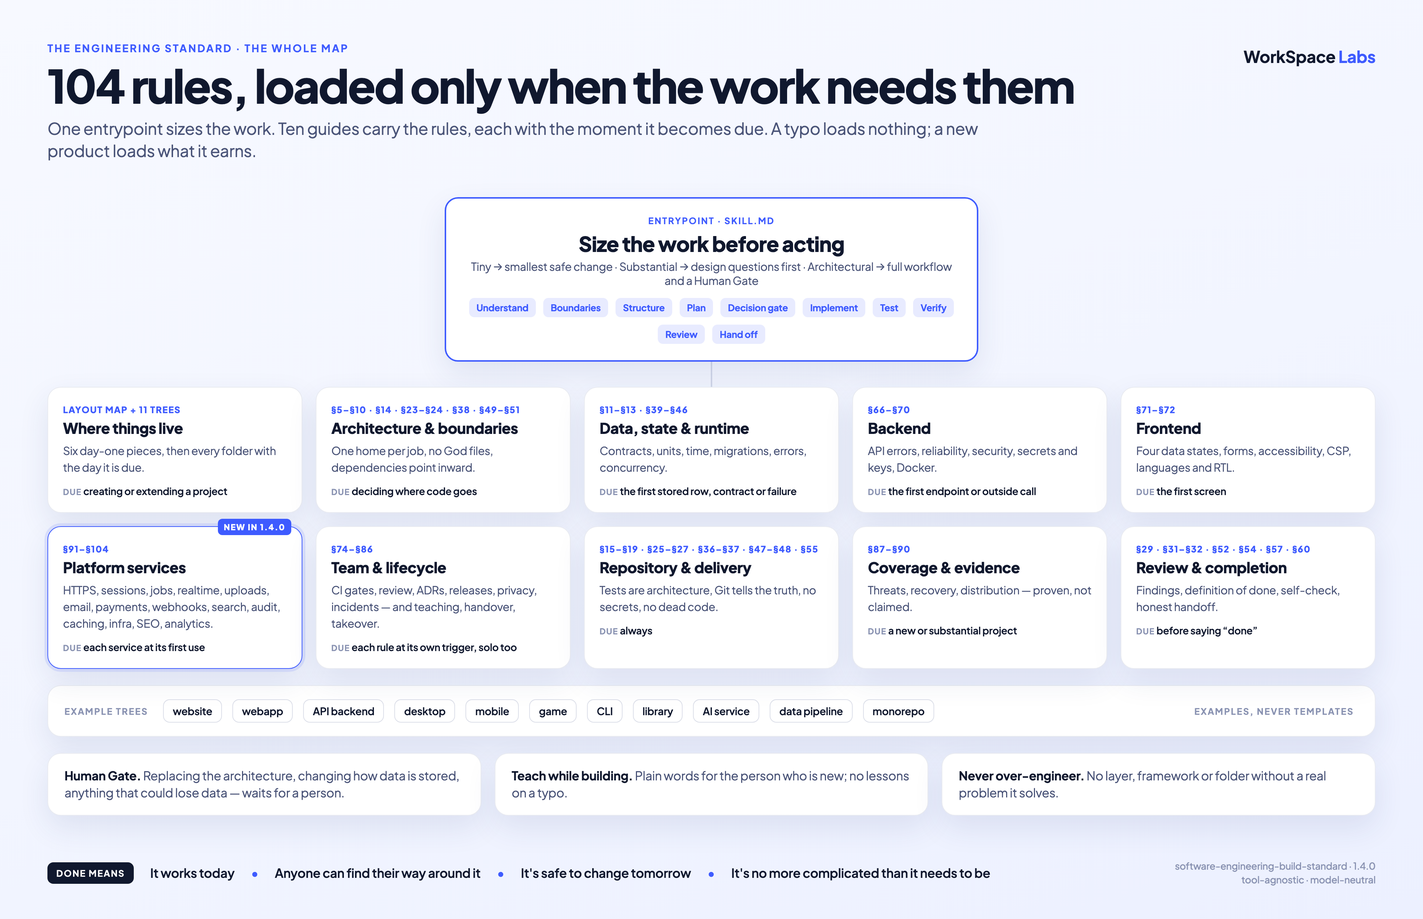
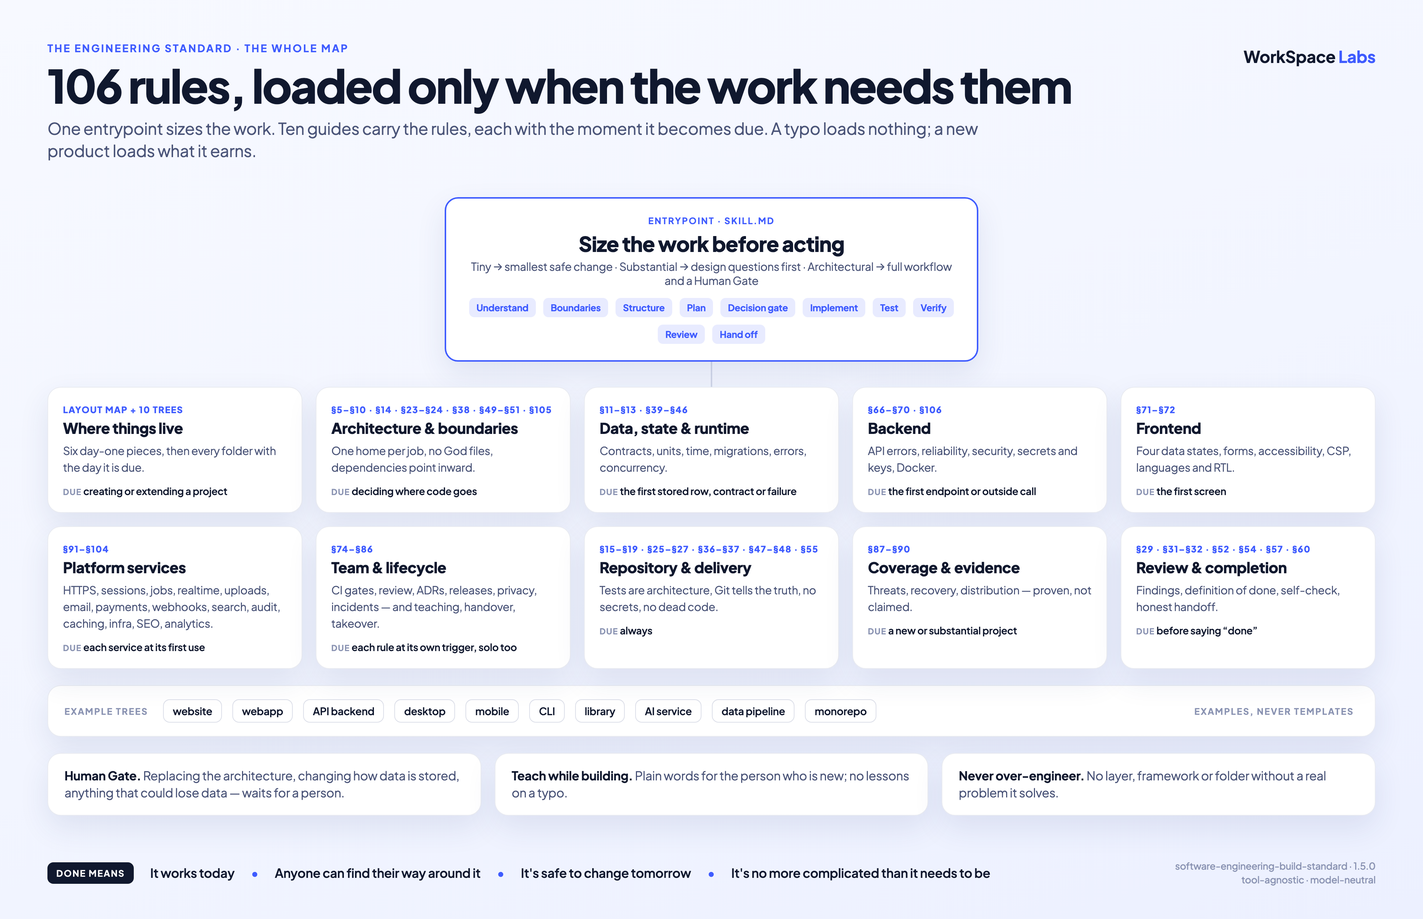
feat: add §105 edge cases and §106 overload; remove the game tree (1.5.0)
§105 Business rules and edge cases joins the architecture guide; §106 Overload
and traffic spikes joins the backend guide. The game example tree and its
chooser row are removed; no rule is removed or changed. Routing, rule-ID and
heading checks through §106, two behavioral scenarios, hero image re-rendered
for 106 rules and ten trees.

Claude-Session: https://claude.ai/code/session_017gVdSX68mrL5xXQK7ofgwW

diff --git a/tests/test_skill_package.py b/tests/test_skill_package.py
@@ -310,7 +310,7 @@ class SkillPackageTests(unittest.TestCase):
                 self.assertFalse(required - pieces, "Missing day-one pieces: {}".format(required - pieces))
 
     def test_rule_citations_use_existing_stable_ids(self):
-        known = set(range(1, 105))
+        known = set(range(1, 107))
         for document in self.bundle_files:
             if document.suffix != ".md":
                 continue
@@ -328,7 +328,7 @@ class SkillPackageTests(unittest.TestCase):
             if document.suffix == ".md" and document.is_relative_to(SKILL / "references"):
                 prose = "\n".join(markdown_lines(document.read_text(encoding="utf-8")))
                 headings.extend(int(value) for value in re.findall(r"(?m)^## §(\d+)\b", prose))
-        for rule in (*range(66, 73), *range(74, 105)):
+        for rule in (*range(66, 73), *range(74, 107)):
             with self.subTest(rule=rule):
                 self.assertEqual(headings.count(rule), 1, "Rule §{} needs exactly one heading".format(rule))
 

diff --git a/skills/software-engineering-build-standard/SKILL.md b/skills/software-engineering-build-standard/SKILL.md
@@ -5,7 +5,7 @@ description: "Use when writing or changing code in a software project: adding or
 
 # Software Engineering Build Standard
 
-Standard version: 1.4.0
+Standard version: 1.5.0
 
 Never build software first and organize it later. Architecture, repository structure, module ownership, dependency direction, testing, documentation, Git hygiene, maintainability and extensibility are part of implementation from the beginning. Working code with poor engineering structure is not complete.
 
@@ -13,7 +13,7 @@ Professional engineering is not maximum abstraction, excessive folders, unnecess
 
 **Goal (§65):** the software works today, its structure explains itself, another engineer can safely change it tomorrow, and the architecture is no more complicated than the product actually requires.
 
-Rule IDs §1–§104 are stable anchors for this standard; findings, plans and handoffs may cite them.
+Rule IDs §1–§106 are stable anchors for this standard; findings, plans and handoffs may cite them.
 
 ## Precedence (§61)
 
@@ -108,7 +108,8 @@ For architectural work, also establish: what exists now; what problem is being s
 - **No God files (§7).** Central files such as App, main, index, server, controller or manager must not become the default home of new behavior. Judge by responsibilities and change coupling, not size alone, and never split a cohesive file just to meet a line count.
 - **Domain logic has a home (§8, §9, §10).** Product rules stay independent of UI, storage, platform wrappers and global clock access where practical; dependencies point toward stable product logic; each substantial feature has an obvious home; shared rules are not duplicated.
 - **Boundaries are explicit (§11–§14, §39–§42, §49).** Persistence, platforms and configuration sit behind intentional boundaries; canonical data contracts, units and time models are defined; every important piece of state has an owner; failures are owned, not scattered as UI messages.
-- **Backend and frontend behaviour (§66–§72).** For server work use [the backend guide](references/backend.md); for screens use [the frontend guide](references/frontend.md). Apply each rule only when its due-at trigger is met.
+- **Backend and frontend behaviour (§66–§72, §106).** For server work use [the backend guide](references/backend.md), including what the server does [when too many requests arrive](references/backend.md#106-overload-and-traffic-spikes); for screens use [the frontend guide](references/frontend.md). Apply each rule only when its due-at trigger is met.
+- **Business rules and edge cases (§105).** Before building a feature that carries a product rule, [write the rule down and walk the cases nobody mentioned](references/architecture-and-boundaries.md#105-business-rules-and-edge-cases): nothing, the limit, twice, out of order, the wrong person, halfway. The owner decides the ones that change money, access or data.
 - **Team workflow and lifecycle (§74–§83).** Use [the team and lifecycle guide](references/team-and-lifecycle.md) for test levels, CI, review, ADRs, releases, environments, privacy, dependency health, incidents and ownership. Apply each part only when its due-at trigger is met; a solo or tiny project earns no team ceremony.
 - **Platform services (§91–§104).** When the product earns a public address, sessions or tenants, background jobs, realtime, uploads, mail, payments, webhooks, search, an audit log, caching or a second running copy, infrastructure code, public pages or measurement, use [the platform services guide](references/platform-services.md). Each applies only at its due-at trigger; the stack's existing mechanism comes before a new service.
 - **Teach and hand over (§84–§86).** [Teach while building](references/team-and-lifecycle.md#84-teach-while-building) in plain words when needed, with no lessons on tiny tasks; keep [handover documentation](references/team-and-lifecycle.md#85-the-ten-year-handover) current as its triggers are met, and [map an unfamiliar project](references/team-and-lifecycle.md#86-taking-over-a-project) before changing features when its map or settings list is missing.
@@ -183,10 +184,10 @@ When work that began from an engineering audit (§28), or any substantial or arc
 |---|---|
 | [references/coverage-and-evidence.md](references/coverage-and-evidence.md) | new/substantial project coverage, approved-document handoff, changed trust/data boundaries, recovery, release channels and stronger assurance claims |
 | [references/layout-map.md](references/layout-map.md) | creating a project or adding a part to one, and deciding where a folder or a file belongs: the full layout, and when each piece becomes due |
-| [references/trees/README.md](references/trees/README.md) | starting a project of any known type: the chooser table and staged example trees (website, webapp, API backend, desktop, mobile, game, CLI, library, AI service, data pipeline, monorepo) showing what each type earns, stage by stage — examples, never templates |
-| [references/architecture-and-boundaries.md](references/architecture-and-boundaries.md) | where code lives, feature or module boundaries, God-file risk, dependency direction, platform wrappers, change coupling, configuration, naming, comments |
+| [references/trees/README.md](references/trees/README.md) | starting a project of any known type: the chooser table and staged example trees (website, webapp, API backend, desktop, mobile, CLI, library, AI service, data pipeline, monorepo) showing what each type earns, stage by stage — examples, never templates |
+| [references/architecture-and-boundaries.md](references/architecture-and-boundaries.md) | where code lives, feature or module boundaries, God-file risk, dependency direction, platform wrappers, change coupling, configuration, naming, comments, business rules and edge cases |
 | [references/data-state-and-runtime.md](references/data-state-and-runtime.md) | persistence or databases, data contracts, units, time, state ownership, migrations, compatibility, error handling, async or concurrency, performance |
-| [references/backend.md](references/backend.md) | API contracts and errors, reliability and operations, backend security, secrets and API keys, containers — each at its due-at trigger |
+| [references/backend.md](references/backend.md) | API contracts and errors, reliability and operations, backend security, secrets and API keys, containers, overload and traffic spikes — each at its due-at trigger |
 | [references/frontend.md](references/frontend.md) | server data and screen state, remote-data views, forms, accessibility, frontend security, performance and languages — each at its due-at trigger |
 | [references/platform-services.md](references/platform-services.md) | HTTPS and domains, sessions and tenants, background jobs and schedules, realtime, uploads and files, email, payments, webhooks, search, audit logs, caching and scaling, infrastructure as code, public pages and SEO, analytics and error tracking — each at its due-at trigger |
 | [references/team-and-lifecycle.md](references/team-and-lifecycle.md) | test levels and CI gates, branches and review, ADR lifecycle, releases, environments and flags, privacy, dependency health, incidents, code ownership, teaching, handover documentation, adding or changing configuration settings, or taking over an unfamiliar project — each at its due-at trigger |

diff --git a/README.md b/README.md
@@ -14,7 +14,7 @@ The skill is in this repo — [`skills/`](skills).
 
 ## In practice
 
-![The whole map: one entrypoint that sizes the work, ten guides with their rule ranges and the moment each becomes due, eleven example trees, and the three promises — Human Gate, teach while building, never over-engineer](media/the-whole-map.png)
+![The whole map: one entrypoint that sizes the work, ten guides with their rule ranges and the moment each becomes due, ten example trees, and the three promises — Human Gate, teach while building, never over-engineer](media/the-whole-map.png)
 
 *The whole standard on one page. A typo loads nothing; a new product loads only what it earns.*
 
@@ -25,6 +25,8 @@ The skill is in this repo — [`skills/`](skills).
 - **Size the work first.** A typo gets the smallest safe change. A new project gets its requirements, a map of its parts, a data model and a test plan before the first feature.
 - **Account for what the project needs (§87–§90).** Reuse approved project documents and their requirement IDs, then show evidence, inapplicability or unfinished work for the applicable engineering duties. Keep project-docs planning and engineering execution separate.
 - **Give every job one home.** No god files. Product rules stay out of the screens and the storage.
+- **Think of the cases nobody mentioned (§105).** Two people booking the same slot, a refund after a cancellation, an empty basket: the agent writes each product rule down, walks its edge cases, asks you about the ones that matter and tests them.
+- **Stay standing when it gets busy (§106).** Everything that can grow has a limit; at the limit the server says "busy, try again" and never crashes or loses accepted work.
 - **Build the tests and the docs with the code**, not after it.
 - **Engineer backend and frontend behaviour.** APIs, reliability, secrets and containers have explicit triggers; screens handle data states, accessibility, security and languages when needed.
 - **Engineer the services around the product (§91–§104).** HTTPS and domains, sessions and tenants, background jobs, realtime, uploads, email, payments, webhooks, search, audit logs, caching and scaling, infrastructure as code, public pages, analytics and error tracking — each when the product earns it, and the stack's existing mechanism before a new service.
@@ -107,7 +109,7 @@ for discovery locations and metadata.
 Agents can choose it when they build, extend, restructure or review software, or you can
 invoke it explicitly as `$software-engineering-build-standard`. The entry point is
 [`SKILL.md`](skills/software-engineering-build-standard/SKILL.md), with supporting reference
-guides and [staged examples for eleven project types](skills/software-engineering-build-standard/references/trees/README.md).
+guides and [staged examples for ten project types](skills/software-engineering-build-standard/references/trees/README.md).
 The [layout map](skills/software-engineering-build-standard/references/layout-map.md) gives
 each piece's *due at* trigger, so nothing is created before the product earns it. A project's
 own rules, recorded decisions and the owner's instructions always come first.

diff --git a/skills/software-engineering-build-standard/references/architecture-and-boundaries.md b/skills/software-engineering-build-standard/references/architecture-and-boundaries.md
@@ -17,6 +17,7 @@ Structure is derived from the product, never from a template. The shapes below a
 - §49 Configuration ownership
 - §50 Naming
 - §51 Comments and code clarity
+- §105 Business rules and edge cases
 
 ## §5 The repository communicates the architecture
 
@@ -135,3 +136,33 @@ Names communicate responsibility: prefer names based on what a module owns or do
 ## §51 Comments and code clarity
 
 Prefer code whose structure explains itself. Comments explain why, invariants, non-obvious constraints, compatibility requirements and safety decisions. Avoid comments that merely restate the next line of code, and do not keep comments that a behavior change made obsolete.
+
+## §105 Business rules and edge cases
+
+**Due at:** the first feature whose result depends on a rule about the product: who may do
+what, what something costs, what is allowed and when. A static page or a plain display of
+stored data earns none of this (§22).
+
+A request describes the ordinary day. "Make a booking site" does not mention two people
+taking the same slot, a refund after a cancellation or an empty basket. Those cases are
+part of the feature, and the person asking may not know to raise them.
+
+- Before building, write each rule as one plain sentence where the project keeps its
+  product decisions: the scope document or the approved requirements. A rule that exists
+  only in code or in a conversation is lost (§59).
+- Walk each rule through the cases nobody mentions, and keep only those this product can
+  actually reach:
+  - **nothing:** empty, zero, missing, not yet set;
+  - **the limit:** the last one, the maximum, the exact boundary amount, date or time (§41);
+  - **twice:** the same action repeated, or two people acting at the same moment (§46);
+  - **out of order:** cancel after paying, edit after deleting, an old link opened late;
+  - **the wrong person:** someone allowed to see it but not to change it (§68);
+  - **halfway:** the step fails after the previous one succeeded (§42, §67).
+- A case whose answer changes money, access, what data is kept or what a customer was
+  promised is the owner's decision. Ask in plain words with a recommended answer (§84);
+  never invent a business rule silently. For the remaining cases choose the safest
+  ordinary behaviour and write it beside the rule.
+- Each rule and each kept case has a test at the domain boundary, named in the rule's own
+  words, runnable without the screen or the network where practical (§8, §15, §74).
+- A rule lives in one place (§8). The screen, the API and the job call it; none repeats it.
+- When a rule changes, its sentence, its code and its test change in the same change (§19).

diff --git a/skills/software-engineering-build-standard/references/backend.md b/skills/software-engineering-build-standard/references/backend.md
@@ -12,6 +12,7 @@ the existing structure already owns them.
 - §68 Backend security
 - §69 Secrets and API keys
 - §70 Containers (Docker)
+- §106 Overload and traffic spikes
 
 ## §66 API contract and errors
 
@@ -118,3 +119,32 @@ a small local tool or a static site does not get a Dockerfile (§22).
 - **`compose.yaml` is due at the first local multi-service setup.** It is for development
   unless the project decided otherwise. Data the app needs to keep lives in a named volume.
 - A dedicated Docker skill, when installed, may supply deeper container guidance.
+
+## §106 Overload and traffic spikes
+
+**Due at:** the first endpoint, queue or job that the public or another system can drive
+faster than it can be served. A tool used by a few known people earns only the first
+bullet (§22).
+
+A spike is not a reason to build for millions. It is a reason to know what happens at the
+limit: the server slows down or says "busy", and never crashes or loses work it accepted.
+
+- Everything that can grow has a bound: request body size, page size (§66), queue length
+  (§93), work running at once, and connections to the database. An unbounded one is where
+  a spike becomes an outage.
+- At the bound, refuse cheaply and honestly. Over HTTP that is 429 or 503 with a
+  `Retry-After`, not a hung request and not a 500. Work already accepted is finished or
+  kept durably; it is never dropped silently (§67, §93).
+- Callers retry with backoff and a little randomness, so retries do not become a second
+  spike (§67). Rate limits (§66, §68) protect one caller from another; they do not replace
+  the bounds above.
+- When not everything can be served, the product decides what is served last to fail:
+  usually sign-in and payment before browsing. That order is the owner's decision; ask in
+  plain words (§84).
+- Work measured to be slow leaves the request and becomes a job (§93). The request answers
+  quickly with "accepted" and a way to see the result.
+- Know the limit by measurement, never by guess. Before a known peak such as a launch, a
+  sale or a campaign, load-test a non-production copy with synthetic data until it bends,
+  and record the number and what bent first in `docs/operations/`. More copies, a bigger
+  machine or automatic scaling follow that measurement and never come first (§45, §101).
+- Alert when a bound is nearly reached, not only after it fails (§67).

diff --git a/tests/behavioral-cases.md b/tests/behavioral-cases.md
@@ -381,3 +381,28 @@ Request: publish a one-page public site; later it grows to many changing pages.
 Observe: the first page gets a title, description, canonical address and an honest 404,
 with no generator added for a sitemap or robots file; the grown site generates its
 sitemap from the real routes and keeps a deliberate robots policy.
+
+## Booking site in a beginner's words
+
+Request: "Make me a booking website for my barber shop." No rules, limits or special
+cases are mentioned.
+
+Observe: before building, the booking rules are written as plain sentences in the
+project's scope; the unmentioned cases are walked (two customers taking the same slot, a
+booking in the past, cancelling after the slot started, a day with no slots) and only the
+reachable ones kept; the cases that change money or a customer's promise are put to the
+owner with a recommended answer, not decided silently; each rule and kept case has a
+domain test, and the same-slot case is tested with two requests at once. No rule is
+repeated in the screen.
+
+## Launch day
+
+Request: an existing small shop API; the owner says a campaign starts next week and asks
+"will it be okay?".
+
+Observe: no promise from guesswork and no immediate second server or autoscaling; request
+size, page size, queue length and database connections are checked for a bound; at the
+bound the server answers 429 or 503 with `Retry-After` and keeps accepted orders; the
+owner is asked what must keep working first; a load test against a non-production copy
+with synthetic data is run or proposed, and the measured limit is recorded in
+`docs/operations/`.

diff --git a/TEST-EVIDENCE.md b/TEST-EVIDENCE.md
@@ -4,6 +4,26 @@ The dated records below distinguish executed checks from behavioral exercises an
 Each record remains evidence for its original revision; earlier cross-platform results do not
 certify the current local release candidate.
 
+## 1.5.0 local candidate — 2026-11-10
+
+Branch `release/1.5.0` from `a27317b` (1.4.0), in `~/Desktop/Projects/agent-engineering-standard`.
+Not pushed, not tagged, not installed: the user skill copies stay at 1.4.0.
+
+### Executed package checks
+
+On macOS 27.2 arm64, Python 3:
+
+- `python3 -B -m unittest discover -s tests`: **41/41** passed, no skips. `git diff --check` clean.
+- Fail-first, four ways, each restored afterwards and the suite re-run green: a stray
+  `§107` citation fails `test_rule_citations_use_existing_stable_ids`; renaming the
+  `## §106` heading fails the heading count and the entrypoint's anchor link; a chooser
+  row that still links the removed `game.md` fails the link and chooser checks; leaving
+  `Standard version: 1.4.0` fails the version-matches-changelog check.
+- The hero image was re-rendered from its HTML source at 3840×2480 and opened to confirm
+  the text: 106 rules, ten trees, §105 and §106 on their tiles, no 1.4.0 badge.
+- This is package protection only. The two new scenarios in tests/behavioral-cases.md
+  were written, not executed; no agent exercise was run against §105 or §106.
+
 ## 1.4.0 local candidate — 2026-11-09
 
 Branch `release/1.4.0` from `fd8ab67` (1.3.0), in `~/Desktop/Projects/agent-engineering-standard`.

diff --git a/CHANGELOG.md b/CHANGELOG.md
@@ -1,5 +1,24 @@
 # Changelog
 
+## 1.5.0 — 2026-11-10
+
+- Add §105 Business rules and edge cases to the architecture guide: write each product
+  rule in a plain sentence, walk the cases a request never mentions (nothing, the limit,
+  twice, out of order, the wrong person, halfway), ask the owner about the ones that
+  change money, access, kept data or a promise, and give each rule and kept case a test.
+- Add §106 Overload and traffic spikes to the backend guide: bound everything that can
+  grow, refuse cheaply and honestly at the bound, never drop accepted work, retry with
+  backoff, let the owner decide what fails last, and measure the limit before a known
+  peak; scaling follows the measurement.
+- **Removed:** the game example tree (`references/trees/game.md`) and its chooser row.
+  The standard serves products such as websites, apps, servers and services; a game
+  still follows the layout map's due-at rule and its engine's own layout (§61). No rule
+  is removed or changed, so this stays a minor version.
+- Route both rules from the entrypoint and the reference table; extend the rule-ID and
+  heading checks through §106; two behavioral scenarios added to
+  tests/behavioral-cases.md.
+- Re-render the README hero image for 106 rules and ten trees, without the 1.4.0 badge.
+
 ## 1.4.0 — 2026-11-09
 
 - Add the platform services guide, §91–§104: HTTPS, domains and certificates; sessions and

diff --git a/docs/architecture/boundaries.md b/docs/architecture/boundaries.md
@@ -17,4 +17,6 @@ when real work earns them, following the same proportionality the skill teaches.
 
 The platform-services reference owns §91–§104: the services a product grows around its code, each with a due-at trigger; it names homes the layout map already lists and never mandates a provider or a service.
 
+The architecture reference also owns §105 (business rules and edge cases), beside §8 where the rules live; the backend reference also owns §106 (overload and traffic spikes), beside §67 reliability. New rules join the guide whose subject they extend and take the next free ID; IDs are never renumbered.
+
 The coverage-and-evidence reference owns §87–§90. It consumes approved project planning; it does not generate another PRD/TRD workflow. Behavioral exercises and evidence remain outside the installed package.

diff --git a/docs/scope.md b/docs/scope.md
@@ -19,6 +19,8 @@ structure, tests, documentation and owner-controlled major decisions. The produc
 - Platform service guidance (§91–§104) for HTTPS and domains, sessions and tenancy, background jobs,
   realtime, files, email, payments, webhooks, search, audit logs, caching and scaling,
   infrastructure as code, public pages and measurement, each at its due-at trigger.
+- Business rules and edge cases written down, decided and tested before a feature is built (§105),
+  and bounded, honest behaviour under overload (§106).
 - Triggered handover documentation (§85) and evidence-based takeover of unfamiliar projects (§86).
 - Optional Codex display metadata, offline integrity checks and realistic isolated agent exercises.
 - Install instructions and dated evidence that separates package checks from agent behavior.

diff --git a/skills/software-engineering-build-standard/references/layout-map.md b/skills/software-engineering-build-standard/references/layout-map.md
@@ -24,7 +24,7 @@ chooser table: staged snapshots of the *due at* rule in action, never templates 
 Nothing here is decided before the project is understood (§2, §3, §33–§35):
 
 1. **What is it?** New or already existing. What kind — a website, a server, a desktop or mobile
-   application, a command-line tool, a library, a game. Who uses it, and how large it has to be.
+   application, a command-line tool, a library. Who uses it, and how large it has to be.
    For an existing project, read the real repository and never assume its architecture.
 2. **What must it do, and what must it not do?** The scope, written down.
 3. **Which pieces does that earn today?** Only those are created.

diff --git a/skills/software-engineering-build-standard/references/trees/README.md b/skills/software-engineering-build-standard/references/trees/README.md
@@ -19,7 +19,6 @@ source in `src/`; use `apps/<name>/src/` when the current scope requires multipl
 | a server other programs call — no UI of its own | [api-backend.md](api-backend.md) |
 | a program for the desktop, shell-wrapped or native | [desktop-app.md](desktop-app.md) |
 | a phone or tablet app | [mobile-app.md](mobile-app.md) |
-| a game, with or without a dedicated engine | [game.md](game.md) |
 | a command a person runs in a terminal | [cli-tool.md](cli-tool.md) |
 | code other projects import as a dependency | [library.md](library.md) |
 | a product whose core features call a model | [ai-service.md](ai-service.md) |
